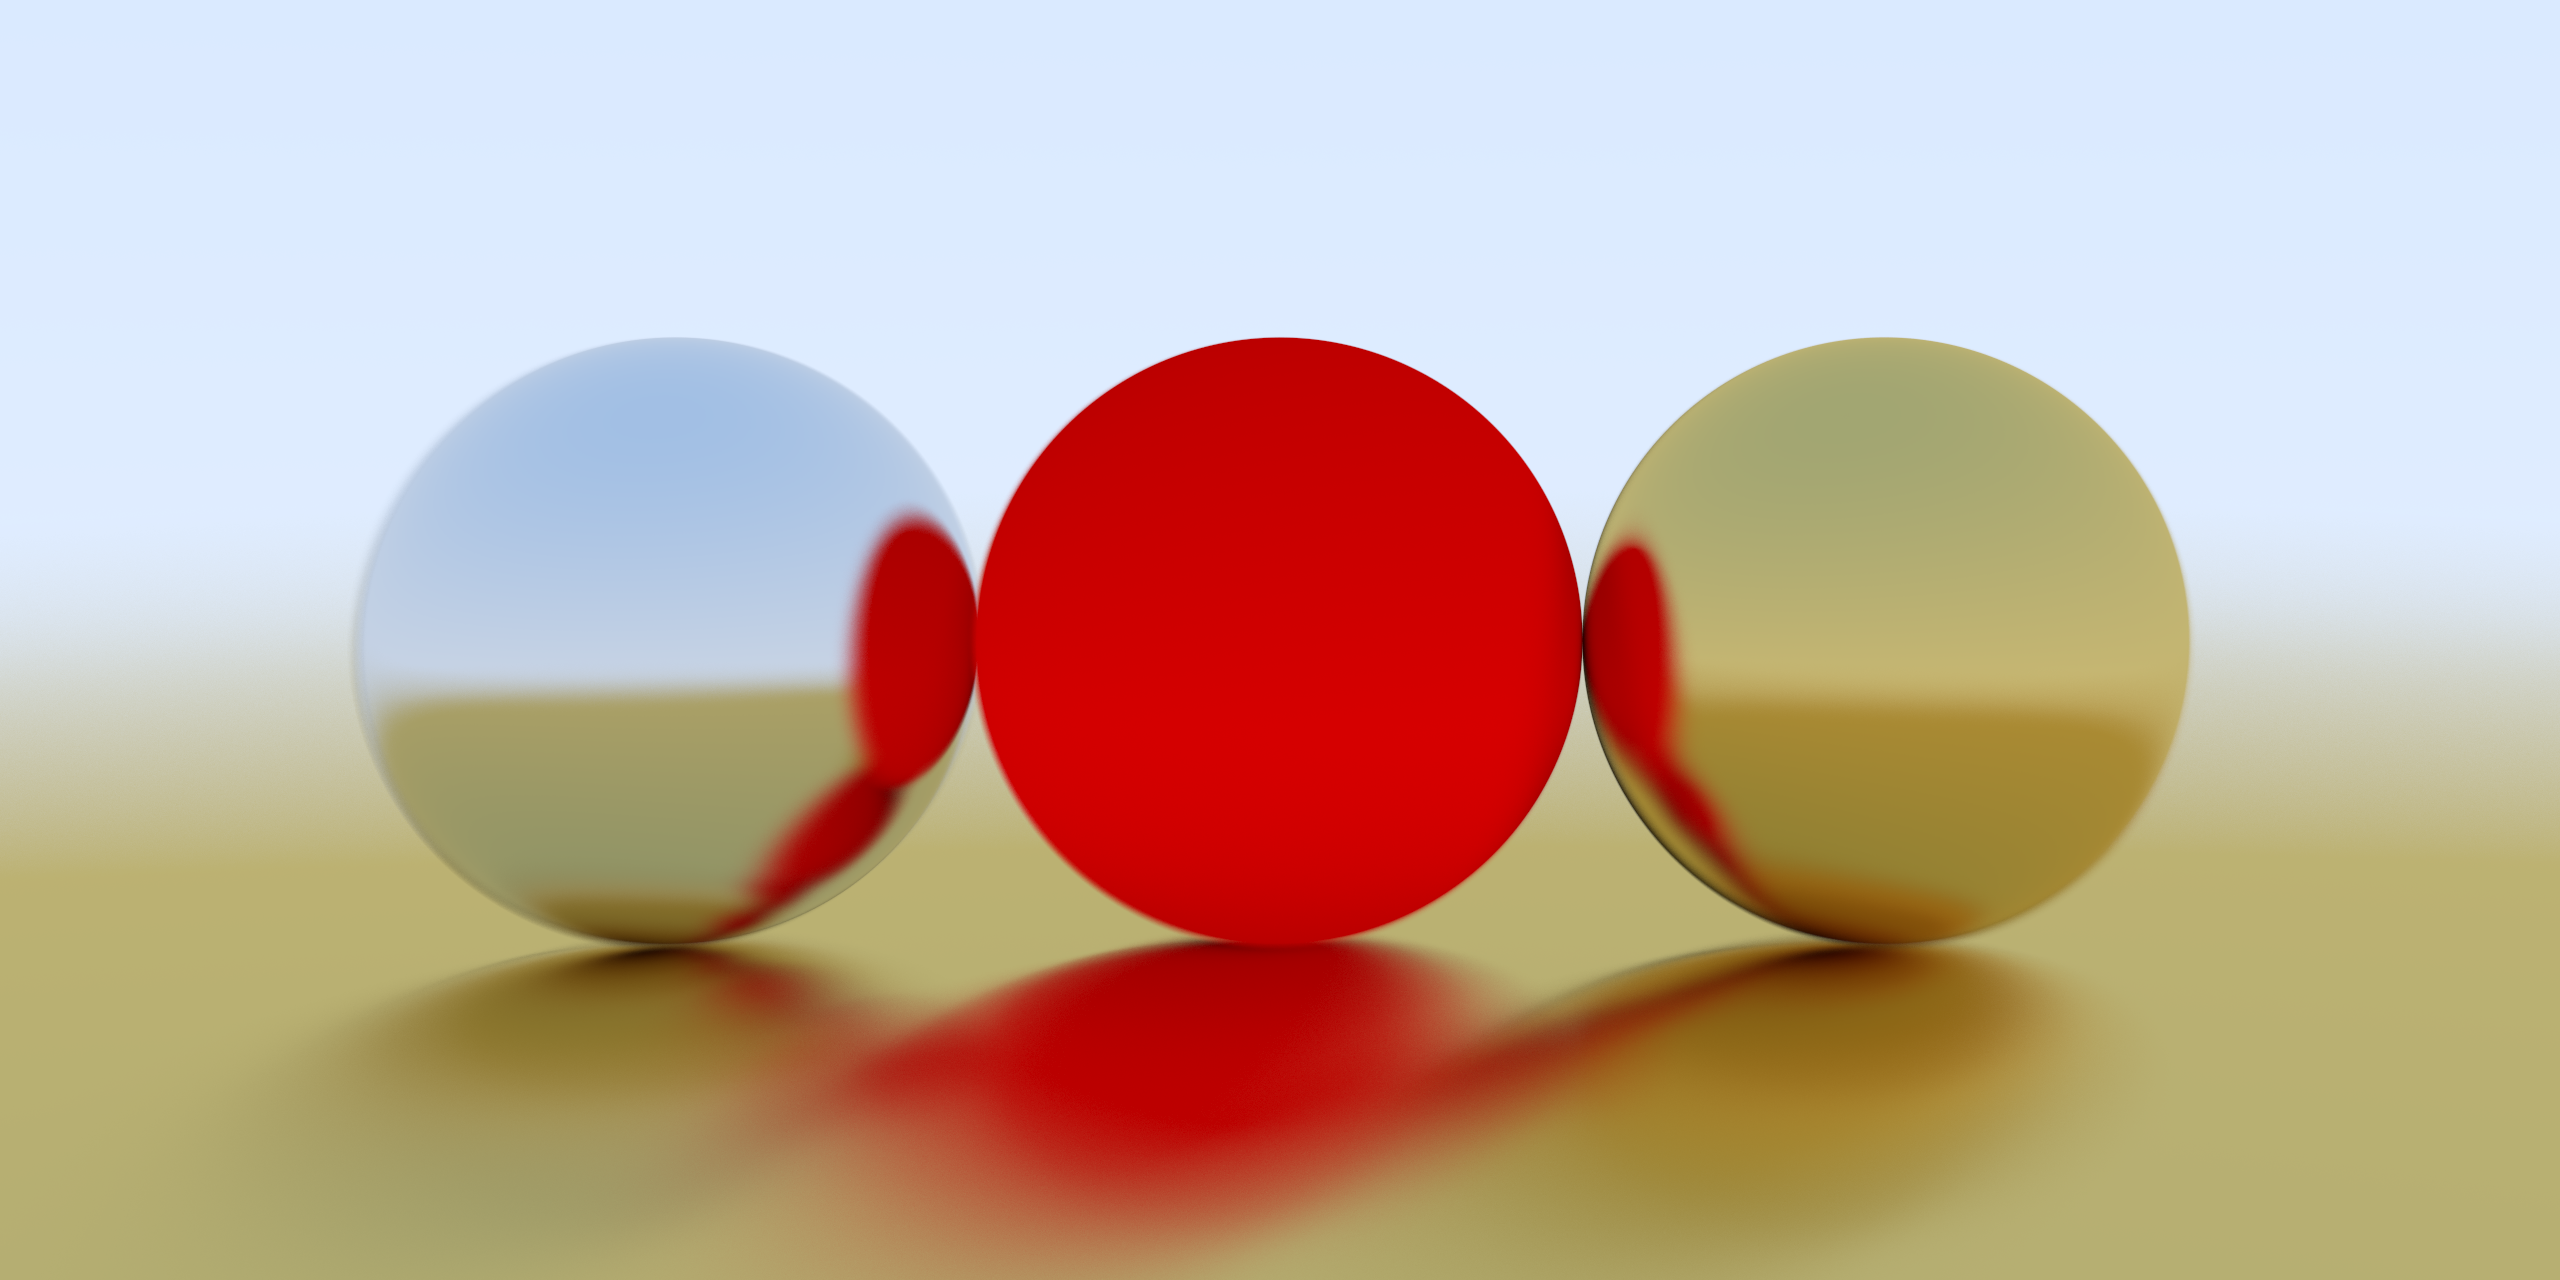
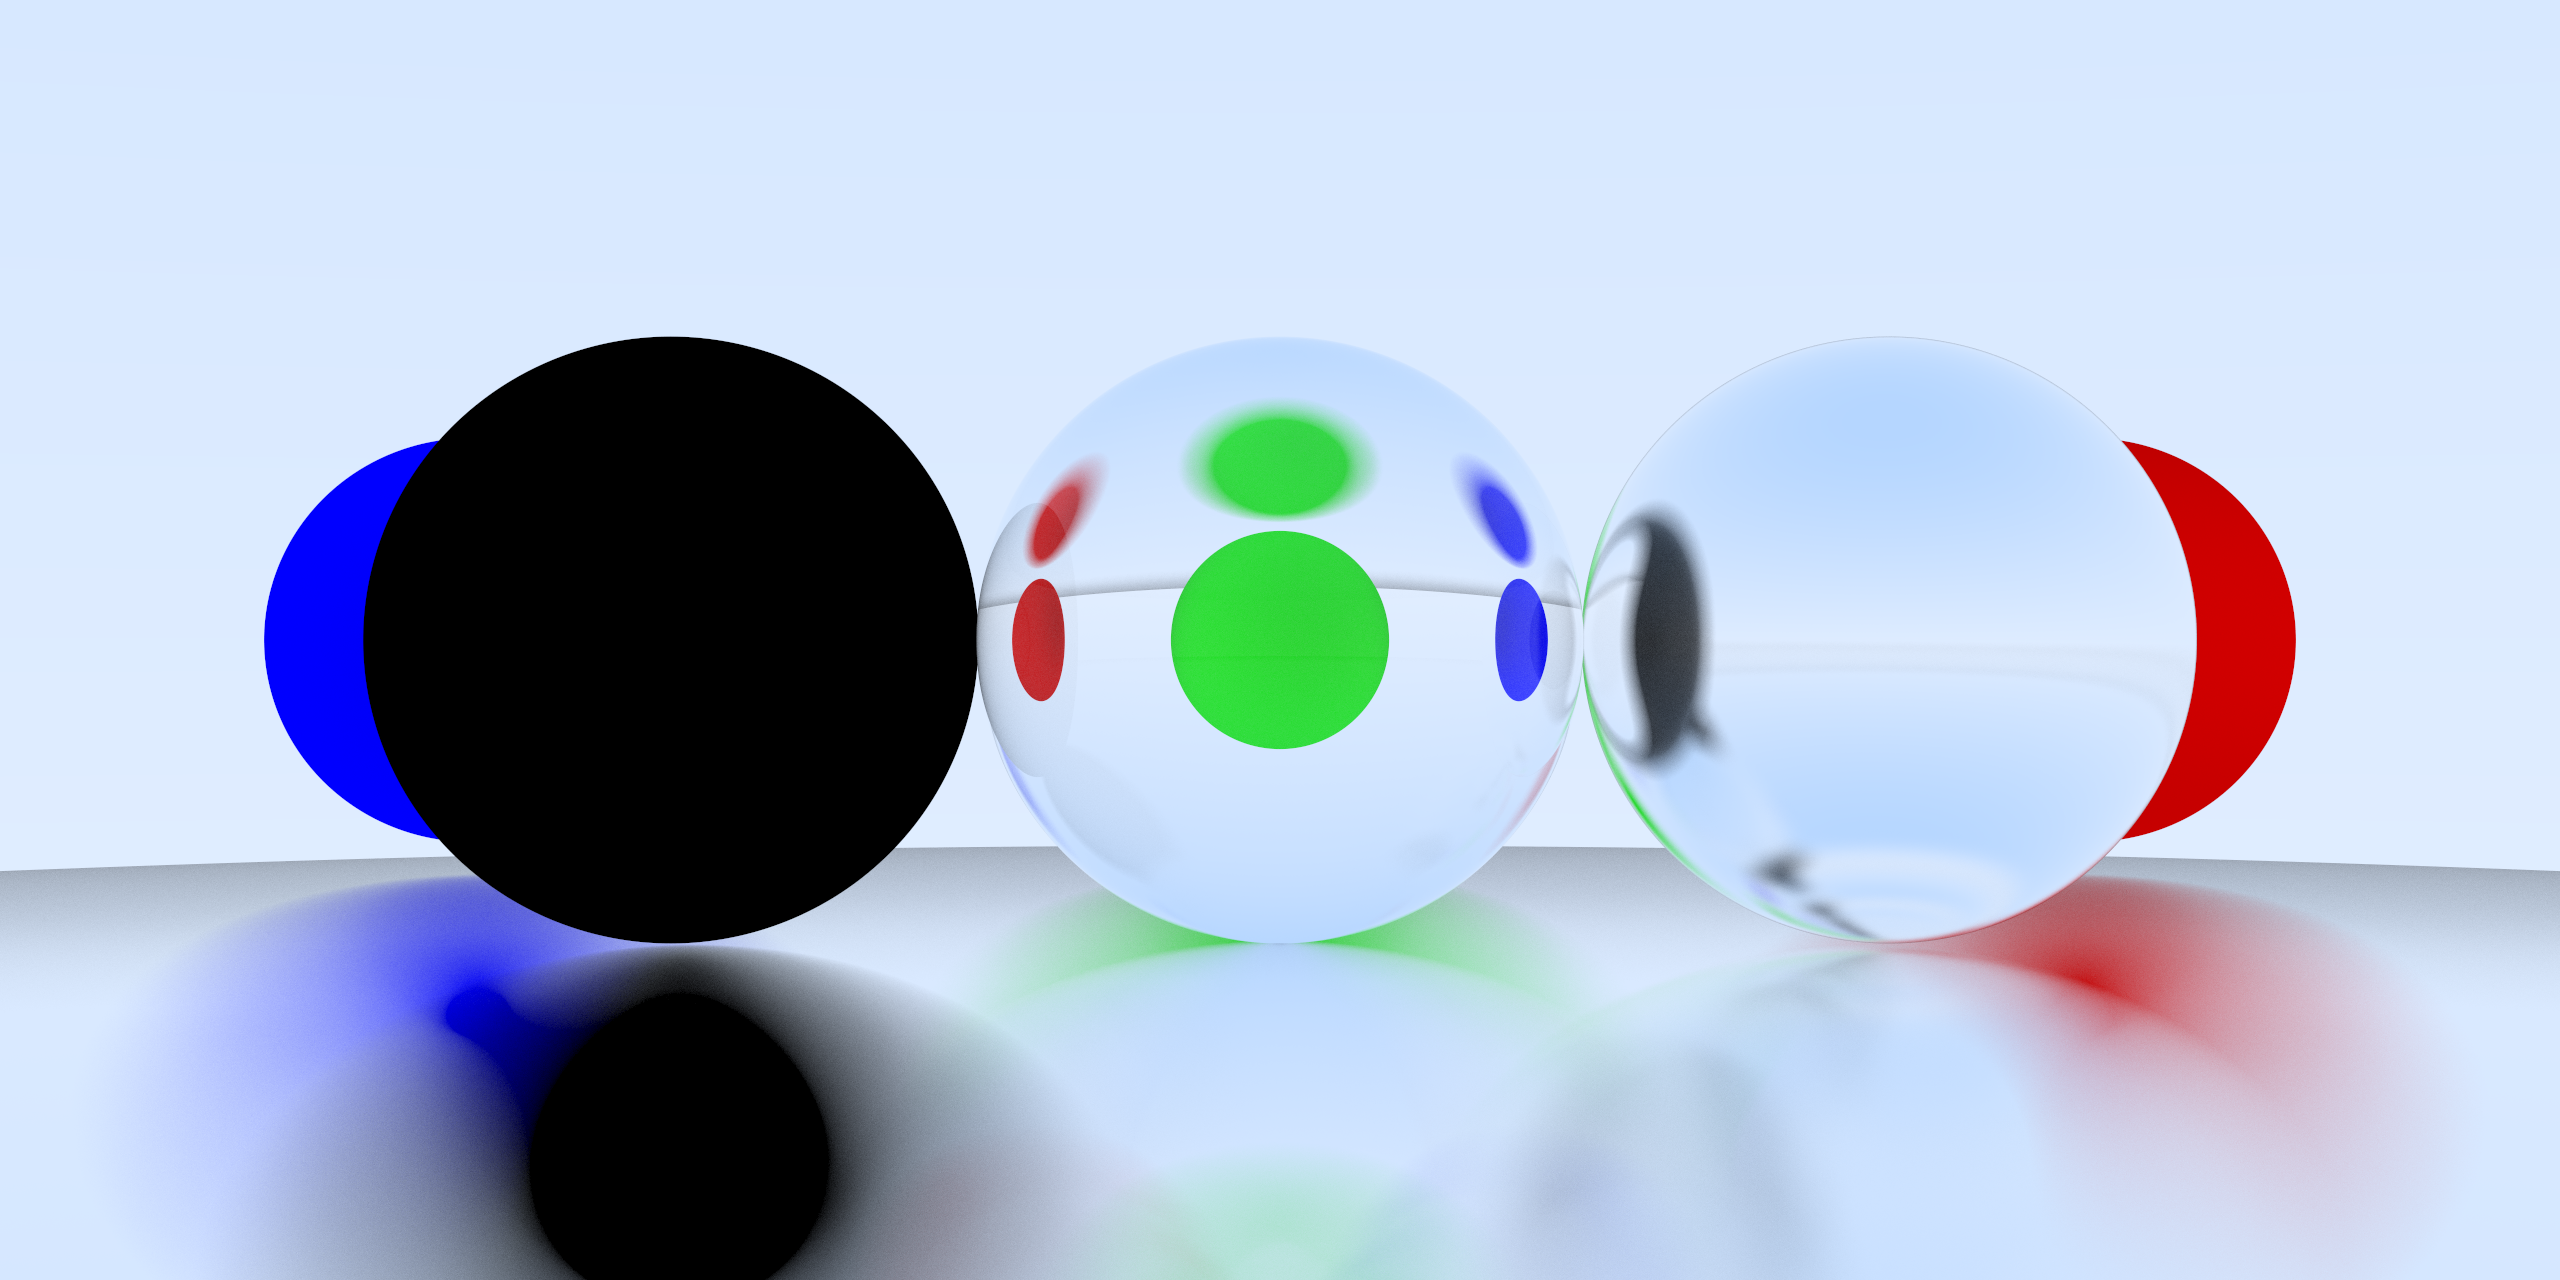
Added Progress bar

diff --git a/src/main.rs b/src/main.rs
@@ -1,8 +1,10 @@
 extern crate cgmath;
+extern crate indicatif;
 extern crate pathtracer;
 extern crate png;
 extern crate rand;
 use cgmath::{InnerSpace, Vector3};
+use indicatif::{MultiProgress, ProgressBar, ProgressStyle};
 use pathtracer::camera::Camera;
 use pathtracer::hitable::{HitRecord, Hitable};
 use pathtracer::hitable_list::HitableList;
@@ -22,21 +24,18 @@ use std::thread;
 fn color<T: Hitable>(ray: &Ray, world: &T, depth: usize) -> Vector3<f32> {
     let mut hit_record = HitRecord::new(f32::MAX);
     if world.hit(ray, 0.001, f32::MAX, &mut hit_record) {
-        match hit_record.material.clone() {
-            Some(mat) => {
-                let (scattered, attenuation, valid) = mat.scatter(ray, &hit_record);
-                if valid && depth < 100 {
-                    let col = color(&scattered, world, depth + 1);
-                    return Vector3::new(
-                        col.x * attenuation.x,
-                        col.y * attenuation.y,
-                        col.z * attenuation.z,
-                    );
-                } else {
-                    return Vector3::new(0.0, 0.0, 0.0);
-                }
+        if let Some(ref mat) = hit_record.material {
+            let (scattered, attenuation, valid) = mat.scatter(ray, &hit_record);
+            if valid && depth < 1000 {
+                let col = color(&scattered, world, depth + 1);
+                return Vector3::new(
+                    col.x * attenuation.x,
+                    col.y * attenuation.y,
+                    col.z * attenuation.z,
+                );
+            } else {
+                return Vector3::new(0.0, 0.0, 0.0);
             }
-            None => {}
         }
     }
     let unit_dir = ray.direction.normalize();
@@ -51,12 +50,13 @@ fn trace(
     min_height: usize,
     max_height: usize,
     num_samples: usize,
+    bar: ProgressBar,
 ) {
     let look_from = Vector3::new(0.0, 0.0, 5.0);
     let look_at = Vector3::new(0.0, 0.0, -1.0);
     let up = Vector3::new(0.0, 1.0, 0.0);
     let dist_to_focus = (look_from - look_at).magnitude();
-    let aperture = 2.0;
+    let aperture = 0.0;
     let camera = Camera::new(
         look_from,
         look_at,
@@ -69,33 +69,67 @@ fn trace(
     let mut hitable_list = HitableList::new(Vec::new());
 
     //red
-    let red = Rc::new(Lambertian::new(Vector3::new(1.0, 0.0, 0.0)));
+    let _red = Rc::new(Lambertian::new(Vector3::new(1.0, 0.0, 0.0)));
+    //green
+    let _green = Rc::new(Lambertian::new(Vector3::new(0.0, 1.0, 0.0)));
+    //blue
+    let _blue = Rc::new(Lambertian::new(Vector3::new(0.0, 0.0, 1.0)));
+    //white
+    let _white = Rc::new(Lambertian::new(Vector3::new(1.0, 1.0, 1.0)));
+    //red
+    let _red_metal = Rc::new(Metal::new(Vector3::new(1.0, 0.0, 0.0), 0.1));
+    //green
+    let _green_metal = Rc::new(Metal::new(Vector3::new(0.0, 1.0, 0.0), 0.1));
+    //blue
+    let _blue_metal = Rc::new(Metal::new(Vector3::new(0.0, 0.0, 1.0), 0.1));
+    //white
+    let _white_metal = Rc::new(Metal::new(Vector3::new(1.0, 1.0, 1.0), 0.1));
+    //black \m/
+    let _black_metal = Rc::new(Metal::new(Vector3::new(0.0, 0.0, 0.0), 0.1));
+    //black
+    let _black = Rc::new(Lambertian::new(Vector3::new(0.0, 0.0, 0.0)));
     //gold
-    let gold = Rc::new(Metal::new(Vector3::new(0.8, 0.6, 0.2), 0.3));
+    let _gold = Rc::new(Metal::new(Vector3::new(0.8, 0.6, 0.2), 0.3));
     //silver
-    let silver = Rc::new(Metal::new(Vector3::new(0.8, 0.8, 0.8), 0.2));
+    let _silver = Rc::new(Metal::new(Vector3::new(0.8, 0.8, 0.8), 0.2));
+    //glass
+    let _glass = Rc::new(Dielectric::new(1.52));
 
     hitable_list.list.push(Box::new(Sphere::new(
         Vector3::new(0.0, 0.0, -1.0),
         0.5,
-        red.clone(),
+        _glass.clone(),
     )));
     hitable_list.list.push(Box::new(Sphere::new(
         Vector3::new(0.0, -100.5, -1.0),
         100.0,
-        gold.clone(),
+        _white_metal.clone(),
     )));
     hitable_list.list.push(Box::new(Sphere::new(
         Vector3::new(1.0, 0.0, -1.0),
         0.5,
-        gold.clone(),
+        _white_metal.clone(),
     )));
     hitable_list.list.push(Box::new(Sphere::new(
         Vector3::new(-1.0, 0.0, -1.0),
         0.5,
-        silver.clone(),
+        _black_metal.clone(),
     )));
-
+    hitable_list.list.push(Box::new(Sphere::new(
+        Vector3::new(2.0, 0.0, -4.0),
+        0.5,
+        _red.clone(),
+    )));
+    hitable_list.list.push(Box::new(Sphere::new(
+        Vector3::new(0.0, 0.0, -4.0),
+        0.5,
+        _green.clone(),
+    )));
+    hitable_list.list.push(Box::new(Sphere::new(
+        Vector3::new(-2.0, 0.0, -4.0),
+        0.5,
+        _blue.clone(),
+    )));
     for y in (min_height..max_height).rev() {
         for x in 0..width {
             let mut col = Vector3::new(0.0, 0.0, 0.0);
@@ -113,7 +147,9 @@ fn trace(
             vec.push((col.z * 255.99) as u8);
             vec.push(255);
         }
+        bar.inc(1);
     }
+    bar.finish();
 }
 
 fn main() {
@@ -123,8 +159,10 @@ fn main() {
 
     let mut vec: Vec<u8> = Vec::with_capacity(width * height * 3);
 
-    let amount_threads = 4;
+    let amount_threads: usize = 4;
     let mut image_slices: Vec<Arc<Mutex<Vec<u8>>>> = Vec::new();
+    let mbar: MultiProgress = MultiProgress::new();
+
     for _ in 0..amount_threads {
         image_slices.push(Arc::new(Mutex::new(Vec::with_capacity(
             width * height * 3 / amount_threads,
@@ -133,6 +171,14 @@ fn main() {
     let mut handles: Vec<std::thread::JoinHandle<()>> = Vec::new();
     for i in 0..amount_threads {
         let threadslice = image_slices[i].clone();
+        let pbar = ProgressBar::new((height / amount_threads) as u64);
+        pbar.set_style(
+            ProgressStyle::default_bar()
+                .template("{msg} {bar:40.cyan/blue} [{eta:>5}] {pos:>7}/{len:7} ")
+                .progress_chars("##-"),
+        );
+        let b = mbar.add(pbar);
+
         let t1 = thread::spawn(move || {
             let mut vec = threadslice.lock().unwrap();
             trace(
@@ -142,10 +188,12 @@ fn main() {
                 i * height / amount_threads,
                 (i + 1) * height / amount_threads,
                 num_samples,
+                b,
             );
         });
         handles.push(t1);
     }
+    mbar.join_and_clear().unwrap();
 
     for handle in handles {
         match handle.join() {
@@ -159,10 +207,8 @@ fn main() {
             Ok(guard) => guard,
             Err(e) => e.into_inner(),
         };
-        let v: Vec<u8> = guard.to_vec();
-        for elem in v {
-            vec.push(elem);
-        }
+        let mut v: Vec<u8> = guard.to_vec();
+        vec.append(&mut v);
     }
 
     let path = Path::new(r"image.png");

diff --git a/src/material.rs b/src/material.rs
@@ -8,7 +8,26 @@ use ray::Ray;
 use std::f32;
 
 fn random_in_unit_sphere() -> Vector3<f32> {
-    Vector3::new(random::<f32>(), random::<f32>(), random::<f32>()).normalize()
+    Vector3::new(
+        2.0 * random::<f32>() - 1.0,
+        2.0 * random::<f32>() - 1.0,
+        2.0 * random::<f32>() - 1.0,
+    ).normalize()
+}
+
+fn random_in_unit_sphere_new() -> Vector3<f32> {
+    let mut v;
+    loop {
+        v = Vector3::new(
+            2.0 * random::<f32>() - 1.0,
+            2.0 * random::<f32>() - 1.0,
+            2.0 * random::<f32>() - 1.0,
+        );
+        if v.magnitude() < 1.0 {
+            break;
+        }
+    }
+    v
 }
 
 fn reflect(v: &Vector3<f32>, n: &Vector3<f32>) -> Vector3<f32> {
@@ -68,7 +87,7 @@ impl Dielectric {
 
 impl Material for Lambertian {
     fn scatter(&self, r_in: &Ray, hit_record: &HitRecord) -> (Ray, Vector3<f32>, bool) {
-        let target = hit_record.p + hit_record.normal + random_in_unit_sphere();
+        let target = hit_record.p + hit_record.normal + random_in_unit_sphere_new();
         (
             Ray::new(&hit_record.p, target - hit_record.p),
             self.albedo,

diff --git a/src/hitable_list.rs b/src/hitable_list.rs
@@ -4,6 +4,7 @@ use aabb::Aabb;
 use hitable::HitRecord;
 use hitable::Hitable;
 use ray::Ray;
+
 pub struct HitableList {
     pub list: Vec<Box<Hitable>>,
 }
